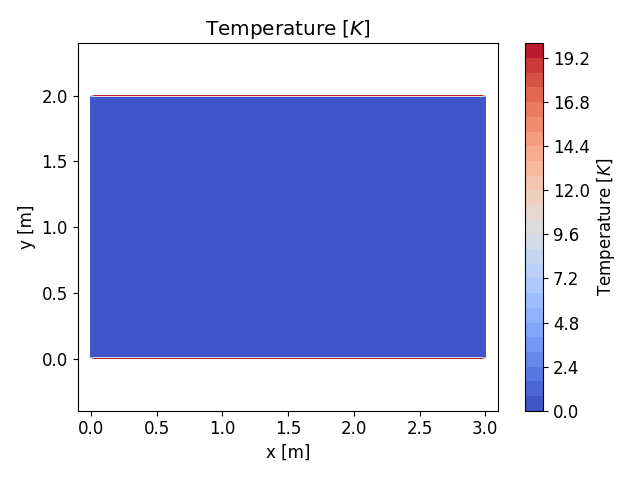
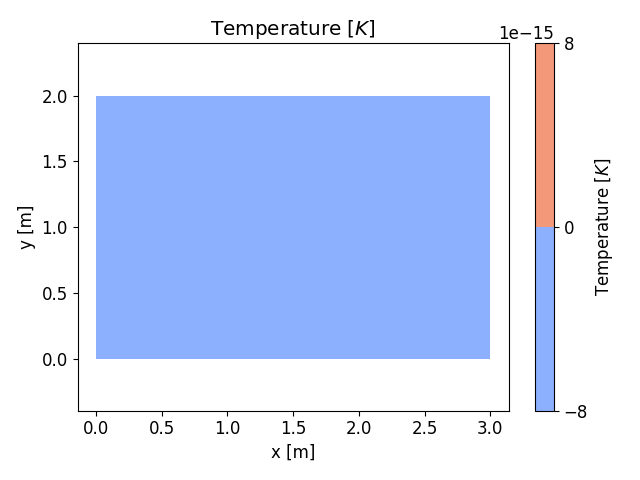
.

diff --git a/MTF073/T2/Martin_T2_test_codeFunctions.py b/MTF073/T2/Martin_T2_test_codeFunctions.py
@@ -19,13 +19,13 @@ Cp      = 500    # Specific heat
 gamma = k/Cp     # Calculated diffusion coefficient
 
 # Boundary condition value preparation
-T_in    = 10     # Inlet temperature
+T_in    = 20     # Inlet temperature
 T_init  = 0      # Initial guess for temperature
 T_east  = T_init # Default, initialization for (Homogeneous) Neumann
 T_west  = T_init # Default, initialization for (Homogeneous) Neumann
 T_north = T_init # Default, initialization for (Homogeneous) Neumann
 T_south = T_init # Default, initialization for (Homogeneous) Neumann
-q_wall  = 0      # Default heat flux at a wall (specified later)
+q_wall  = 100      # Default heat flux at a wall (specified later)
 
 # Steady-state only
 deltaT = 1e30  # DO NOT CHANGE. WHY IS IT SET LIKE THIS?

diff --git a/MTF073/T2/Martin_T2_codeFunctions.py b/MTF073/T2/Martin_T2_codeFunctions.py
@@ -145,8 +145,10 @@ def setDirichletBCs(T,
     # Inlets (found by velocity into domain):
     for i in range(nI):
         j = nJ-1
-        T[0, j] = T_in
-
+        T[0, j-1] = T_in
+        T[0, j-2] = T_in
+        T[0, j-3] = T_in
+    
         
         j = 0
         
